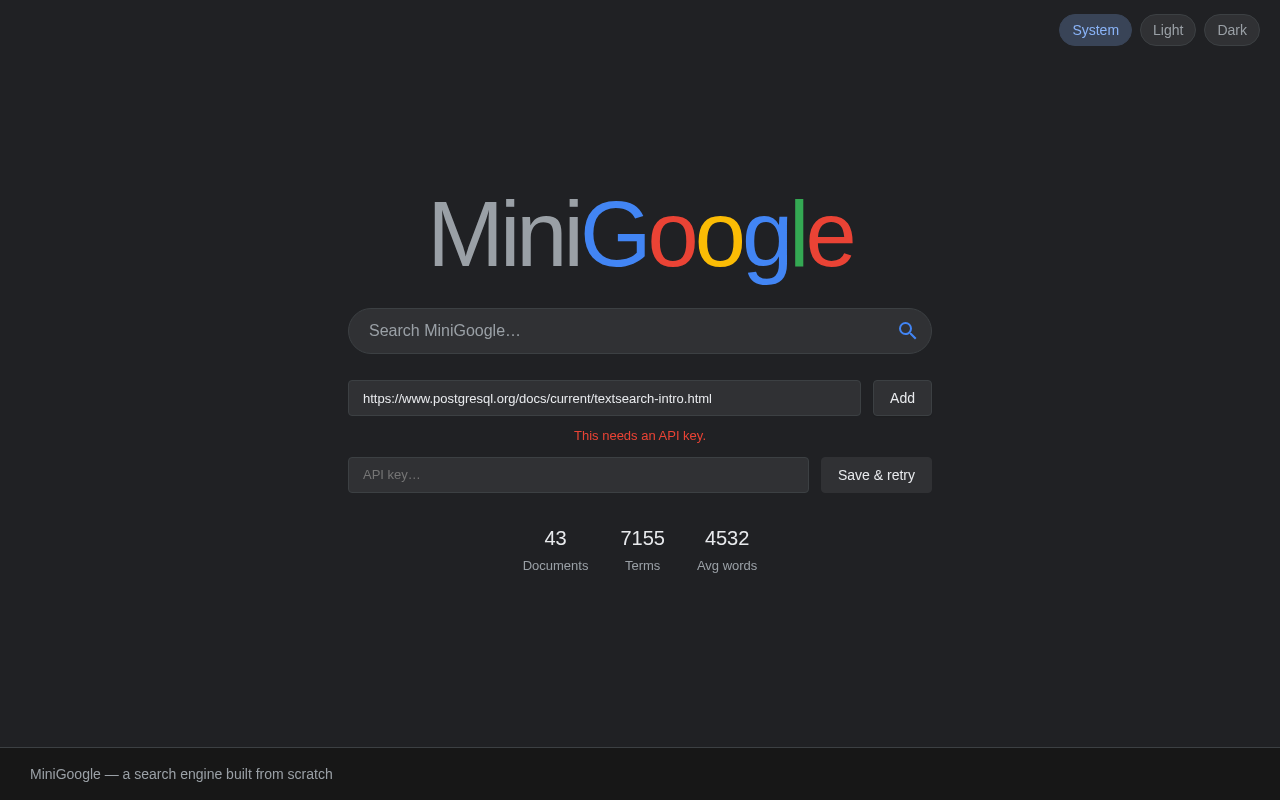
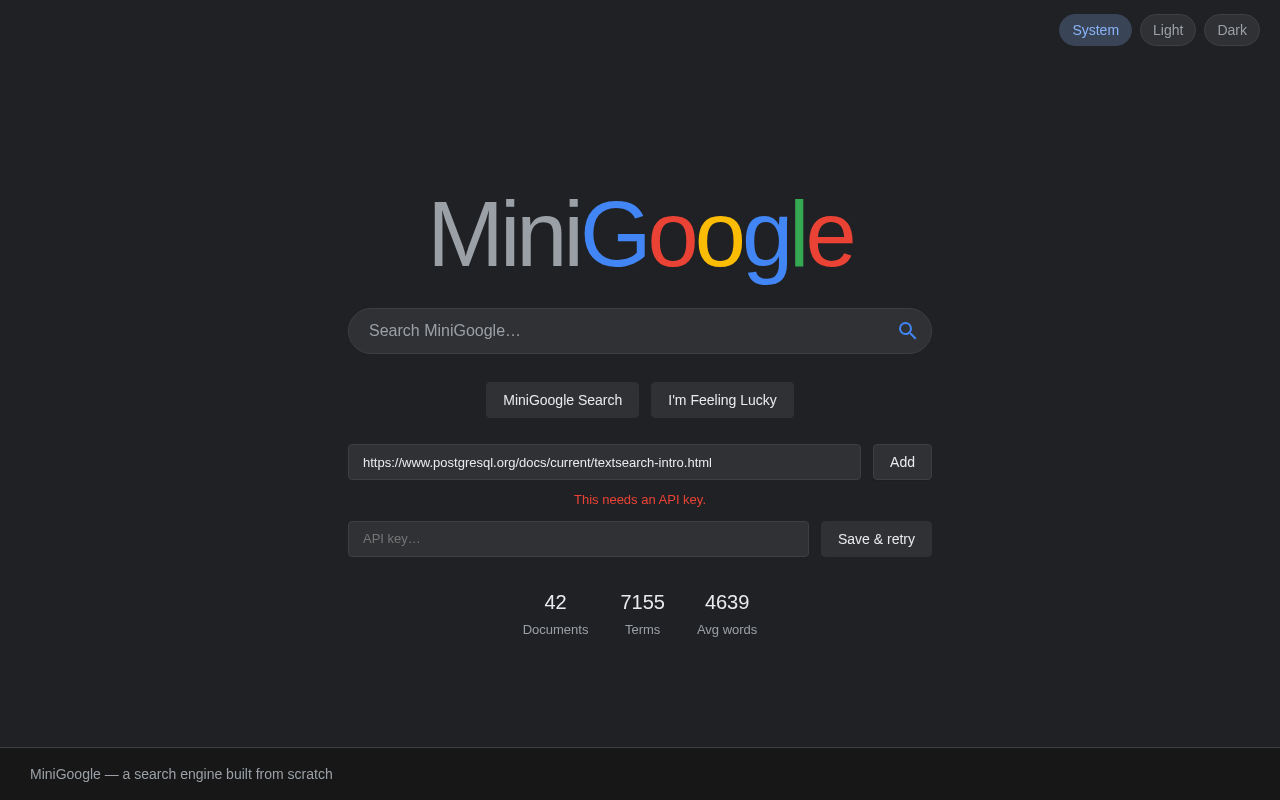
docs(readme): recapture with the home buttons, note the crawl fix
Every asset regenerated on a node started from an empty index directory
so no page appears twice; the README names the two buttons and the
replace-on-recrawl rule, the changelog carries both, and the trace holds
the run (R19) and the rows.

diff --git a/docs/readme-trace.md b/docs/readme-trace.md
@@ -329,14 +329,15 @@ R15. Full suite on the tree at d184e7a: 921 test cases, 0 failures, 0 errors, 23
 
 `path:line` below cites the tree with the UI restyle applied on 2026-09-02.
 
-R16. Assets regenerated with `assets/seed.sh` (stats after seeding: `{"documentCount":43,"vocabularySize":7155,"averageDocumentLength":4532,"version":"1.0"}`), `assets/capture.cjs` in the Playwright container and `assets/make-gif.py`, then measured with Pillow:
+R16. Assets regenerated on the R19 node (42 seeded documents, 43 after the scene that adds one) with `assets/seed.sh`, `assets/capture.cjs` in the Playwright container and `assets/make-gif.py`, then measured with Pillow:
 ```
-assets/hero-dark.png      (1280, 800)   110424 bytes
+assets/hero-dark.png      (1280, 800)   110119 bytes
 assets/hero-dark@2x.png   (2560, 1600)  272320 bytes
 assets/hero-light.png     (1280, 800)   107300 bytes
 assets/hero-light@2x.png  (2560, 1600)  266113 bytes
+assets/social-preview.png (1280, 640)   145185 bytes
 assets/scenes/1-home.png .. 6-why-this-result.png  (1280, 800) each
-assets/demo.gif           (960, 600)    222235 bytes  6 frames  18.0 s
+assets/demo.gif           (960, 600)    229273 bytes  6 frames  18.0 s
 ```
 
 R17. `gh repo view Yasser-Ameur/minigoogle --json description,homepageUrl,repositoryTopics` before any About box was set:
@@ -363,3 +364,16 @@ $ docker image inspect ghcr.io/yasser-ameur/minigoogle:latest --format '{{.Creat
 ```
 
 | 74 | Every push to `master` rebuilds `latest`, which names its commit in the revision label | `.github/workflows/ci.yml:3-5,44-47` (push on master, docker job needs build); R18 (the label read `e155932` right after the push of e155932). A README naming one sha is stale by the next push, which is why the sentence names the label and the command instead |
+R19. Node rebuilt with the crawl fix, started on an empty index directory, seeded, then one seeded URL crawled again:
+```
+boot:      {"documentCount":20,"vocabularySize":680,"averageDocumentLength":71,"version":"1.0"}
+seeded:    {"documentCount":42,"vocabularySize":7155,"averageDocumentLength":4639,"version":"1.0"}
+$ curl -X POST localhost:8080/api/v1/crawl ... -d '{"url": "https://raft.github.io/"}'
+{"success":true,"title":"Raft Consensus Algorithm","url":"https://raft.github.io/"}
+recrawled: {"documentCount":42,...}
+$ search "http caching semantics" pageSize 20 -> total 13, unique URLs 13 of 13
+```
+Before the fix the same sequence on a node whose store already held the seeds reached 65 documents and listed every page twice (this session, 15:44).
+
+| 75 | A URL already in the index is replaced by a re-crawl, not added twice | `MiniGoogleAppUnitTest.java` `crawlingAUrlAgainReplacesItsDocumentInsteadOfAddingASecondCopy` (fails without the fix, checked this session); `MiniGoogleApp.java` `replaceByUrl` called from the crawl handler; R19 |
+| 76 | The two buttons under the home box; I'm Feeling Lucky opens the top result itself | `frontend/src/components/SearchBox.jsx:177-179`; `frontend/src/App.jsx:432-443` (`search(q, 1, 1)` then `window.location.assign(top.url)`); R19; scene `1-home.png` |

diff --git a/README.md b/README.md
@@ -83,14 +83,14 @@ The walkthrough above, one still per step: the home page with the index count; a
 
 ## What the demo opened
 
-The page at `/` is a React 18 single-file build served by the Java process (`src/main/resources/demo/index.html`). It has a search box with suggestions from `/api/v1/suggest`, a results list where every hit can expand a "Why this result" panel with its BM25, PageRank and combined score, an "Add a URL to the index" box that asks for the API key on a 401 and remembers it, and a System / Light / Dark theme switch. The layout and colours are google.com's own: Arial, a white or `#202124` ground, blue titles, grey snippets, a pill search box, and the four brand colours only in the wordmark (`frontend/src/styles.css`). The hero above is the same page in dark and light.
+The page at `/` is a React 18 single-file build served by the Java process (`src/main/resources/demo/index.html`). It has a search box with suggestions from `/api/v1/suggest`, the two buttons under it (MiniGoogle Search, and I'm Feeling Lucky, which opens the top result itself), a results list where every hit can expand a "Why this result" panel with its BM25, PageRank and combined score, an "Add a URL to the index" box that asks for the API key on a 401 and remembers it, and a System / Light / Dark theme switch. The layout and colours are google.com's own: Arial, a white or `#202124` ground, blue titles, grey snippets, a pill search box, and the four brand colours only in the wordmark (`frontend/src/styles.css`). The hero above is the same page in dark and light.
 
 ## How it works
 
 A `STANDALONE` node (the default) does everything in one JVM:
 
 1. At start it indexes the 20 built-in demo documents plus every document ever submitted through `POST /api/v1/crawl`, replayed from `crawled-documents.jsonl` under the index directory.
-2. `POST /api/v1/crawl` fetches one URL, parses it with jsoup, appends it to that file and rebuilds the index. A target that cannot be fetched comes back as `502 FETCH_FAILED` (Wikipedia, for instance, answers the crawler with 403).
+2. `POST /api/v1/crawl` fetches one URL, parses it with jsoup, appends it to that file and rebuilds the index. A URL already in the index is replaced, not added twice. A target that cannot be fetched comes back as `502 FETCH_FAILED` (Wikipedia, for instance, answers the crawler with 403).
 3. `POST /api/v1/search` scores by BM25 and PageRank, and, with `semantic.enabled` on as it is by default, merges lexical and semantic candidates before ranking (asserted by `HybridEndToEndTest` and `SemanticEndToEndTest`). Pure BM25 is what the Relevance section below measures.
 
 Runtime dependencies are jsoup, Jackson, Gson, ONNX Runtime and SLF4J with Logback (`build.gradle.kts`). The HTTP server is `com.sun.net.httpserver` wrapped in `RestServer`; there is no web framework.

diff --git a/CHANGELOG.md b/CHANGELOG.md
@@ -29,10 +29,15 @@ All notable changes to this project are documented here. Format follows
 
 - The web UI follows google.com's results page: Arial, a white or `#202124`
   ground, blue titles, grey snippets, a pill search box, and the four brand
-  colours only in the wordmark. The System / Light / Dark switch stays.
+  colours only in the wordmark, and the two buttons under the home box, the
+  second of which opens the top result itself. The System / Light / Dark
+  switch stays.
 
 ### Fixed
 
+- Crawling a URL that was already in the index added a second copy until the
+  next restart; it now replaces the earlier document, as the replay on boot
+  already did.
 - `ConsistentHashRing` reads were unsynchronised against concurrent
   add and remove; a read-write lock now guards them.
 - Internal cluster RPC routes accepted bodies of any size; they now answer
